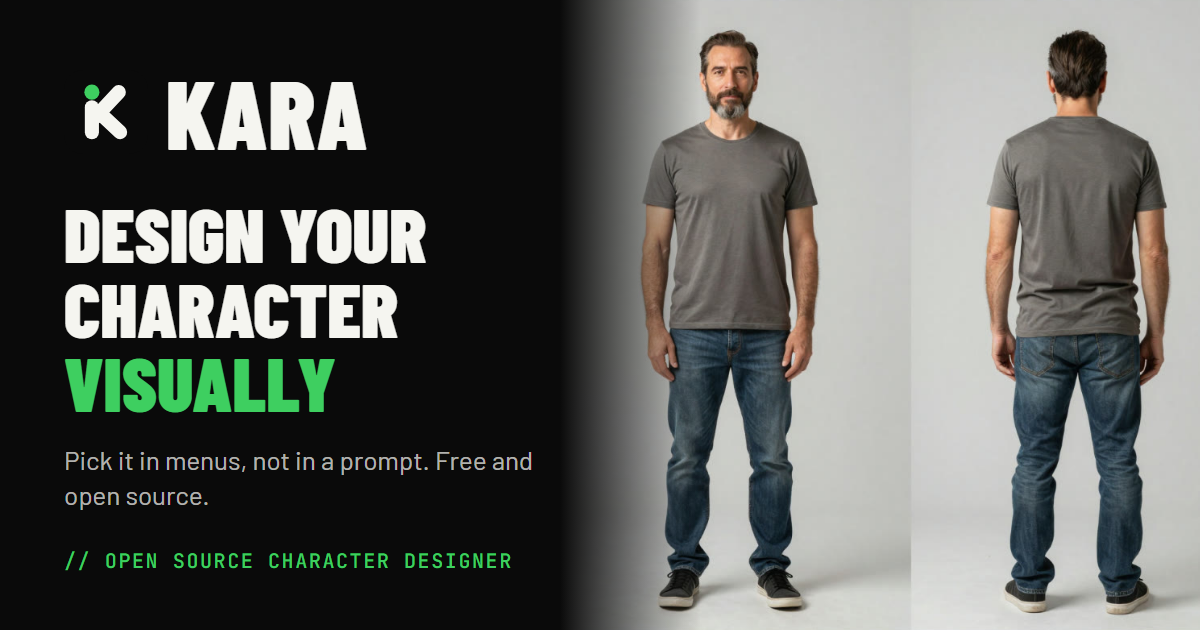
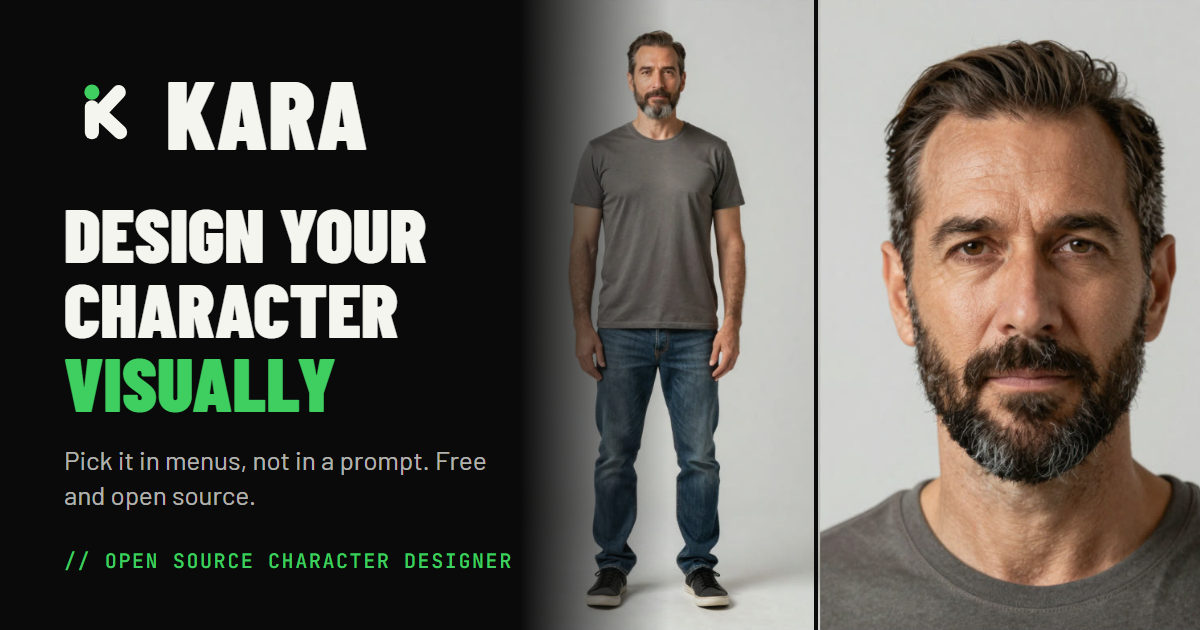
Share card: face close-up instead of the back view, no mention of local ComfyUI

diff --git a/public/index.html b/public/index.html
@@ -6,12 +6,12 @@
   <meta name="google" content="notranslate">
   <meta name="viewport" content="width=device-width, initial-scale=1">
   <title>Kara</title>
-  <meta name="description" content="Kara: an open source character designer, on your own ComfyUI or with your own API key.">
+  <meta name="description" content="Kara: an open source character designer. Pick options in menus instead of writing prompts, with your own API key.">
   <!-- Preview card when the link is shared (Discord, X, LinkedIn, Slack...) -->
   <meta property="og:type" content="website">
   <meta property="og:site_name" content="Kara">
   <meta property="og:title" content="Kara: an open source character designer">
-  <meta property="og:description" content="Design a character by picking options in menus, not by writing prompts. Runs on your own ComfyUI or with your own API key.">
+  <meta property="og:description" content="Design a character by picking options in menus, not by writing prompts. Free and open source: bring your own API key.">
   <meta property="og:url" content="https://kara.dashdash.design/">
   <meta property="og:image" content="https://kara.dashdash.design/og.png">
   <meta property="og:image:width" content="1200">
@@ -19,7 +19,7 @@
   <meta property="og:image:alt" content="Kara: a character shown from the front and from the back">
   <meta name="twitter:card" content="summary_large_image">
   <meta name="twitter:title" content="Kara: an open source character designer">
-  <meta name="twitter:description" content="Design a character by picking options in menus, not by writing prompts. Runs on your own ComfyUI or with your own API key.">
+  <meta name="twitter:description" content="Design a character by picking options in menus, not by writing prompts. Free and open source: bring your own API key.">
   <meta name="twitter:image" content="https://kara.dashdash.design/og.png">
   <link rel="icon" href="icons/kara.svg" type="image/svg+xml">
   <link rel="icon" href="icons/favicon-32.png" sizes="32x32" type="image/png">
